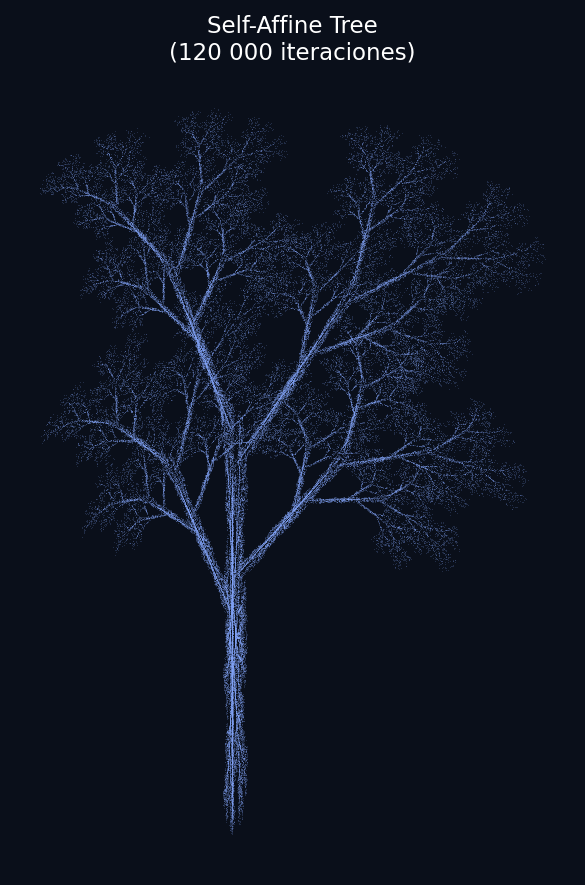
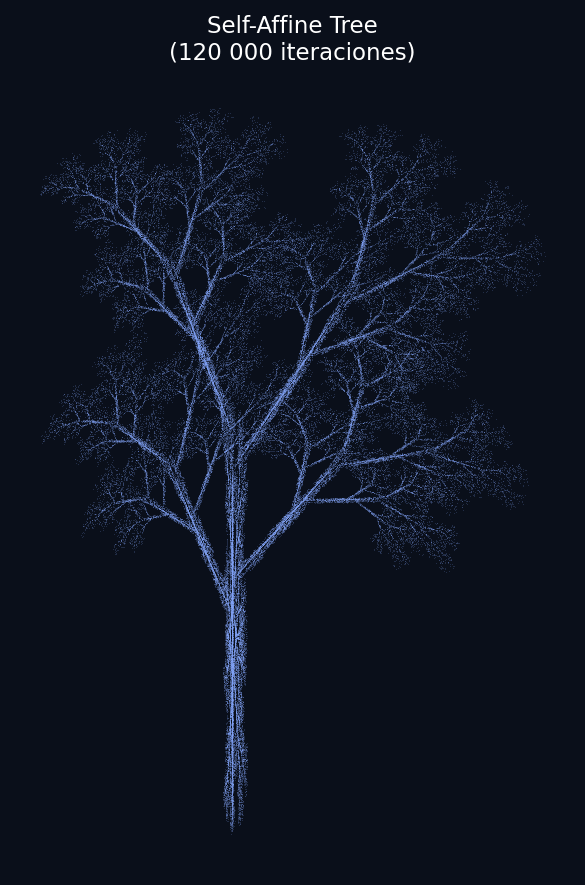
update

Changed region(s): [[0.0615, 0.122, 0.9231, 0.9458]]

diff --git a/Seminario_final/growth.py b/Seminario_final/growth.py
@@ -85,7 +85,82 @@ def protein_fold(length=30, max_tries=3000):
 
     return best, best_e
 
+# ══════════════════════════════════════════════════════════════
+# 8.4.2  Plant Growth Simulations — IFS genérico
+# ══════════════════════════════════════════════════════════════
 
+def ifs_plant(transformations, n=50000):
+    """
+    IFS genérico para simulaciones de crecimiento vegetal.
+
+    Aplica repetidamente transformaciones afines que combinan
+    escalado (8.24), traslación (8.25) y rotación (8.26):
+
+        Escalado:     (x', y') = (sx·x, sy·y)
+        Traslación:   (x', y') = (x + ax, y + ay)
+        Rotación:     x' = x·cos θ − y·sin θ
+                      y' = x·sin θ + y·cos θ
+
+    Parámetros
+    ----------
+    transformations : list of (prob, func)
+        Cada elemento es (probabilidad, función(x,y) -> (x',y')).
+        Las probabilidades deben sumar 1.
+    n : int
+        Número de iteraciones.
+
+    Retorna
+    -------
+    xs, ys : list  Coordenadas del atractor IFS.
+    """
+    cumprob = np.cumsum([t[0] for t in transformations])
+    x, y = 0.0, 0.0
+    xs, ys = [], []
+
+    for _ in range(n):
+        r = random.random()
+        for i, cp in enumerate(cumprob):
+            if r < cp:
+                x, y = transformations[i][1](x, y)
+                break
+        xs.append(x)
+        ys.append(y)
+
+    return xs, ys
+
+
+if __name__ == "__main__":
+    # ...
+    # ── 8.4.2  Plant Growth IFS ───────────────────────────────
+    print("8.4.2  Generando planta con IFS genérico...")
+
+    # Ejemplo: transformaciones con escalado + traslación + rotación
+    theta = np.pi / 6  # 30 grados
+    c, s = np.cos(theta), np.sin(theta)
+
+    plant_transforms = [
+        (0.10, lambda x, y: (0.05 * x, 0.50 * y)),                      # escalado (tallo)
+        (0.20, lambda x, y: (0.46 * x - 0.15 * y,                       # escalado + rotación
+                              0.39 * x + 0.38 * y + 0.6)),
+        (0.20, lambda x, y: (0.47 * x - 0.15 * y,                       # escalado + rotación
+                              0.17 * x + 0.42 * y + 1.1)),
+        (0.25, lambda x, y: ( x * c - y * s + 0.3,                      # rotación + traslación
+                               x * s + y * c + 0.5)),
+        (0.25, lambda x, y: ( x * c + y * s - 0.3,                      # rotación + traslación
+                              -x * s + y * c + 0.5)),
+    ]
+
+    xs_pg, ys_pg = ifs_plant(plant_transforms, n=50000)
+
+    fig, ax = plt.subplots(figsize=(4, 6), facecolor='#0a1a0a')
+    ax.set_facecolor('#0a1a0a')
+    ax.scatter(xs_pg, ys_pg, s=0.05, c='#99dd55', alpha=0.7, linewidths=0)
+    ax.axis('off')
+    ax.set_title('Plant Growth IFS\n(50 000 iteraciones)', color='white', fontsize=11)
+    plt.tight_layout()
+    plt.savefig('plant_growth.png', dpi=150, bbox_inches='tight', facecolor='#0a1a0a')
+    plt.show()
+    
 # ══════════════════════════════════════════════════════════════
 # 8.4.3  Barnsley's Fern  (ecuación 8.29)
 # ══════════════════════════════════════════════════════════════

diff --git a/semana13_unidad_5_de_electromagnetismo/14_5_26_p2_capacitor_placas_paralelas.py b/semana13_unidad_5_de_electromagnetismo/14_5_26_p2_capacitor_placas_paralelas.py
@@ -25,7 +25,7 @@ tolerance = 1e-4
 max_iterations = 10000
 
 V = np.zeros((N, N))
-mask = np.zeros((N, N))
+mask = np.zeros((N, N)) # la mask sirve
 
 # placas
 # placa superior de +100 V